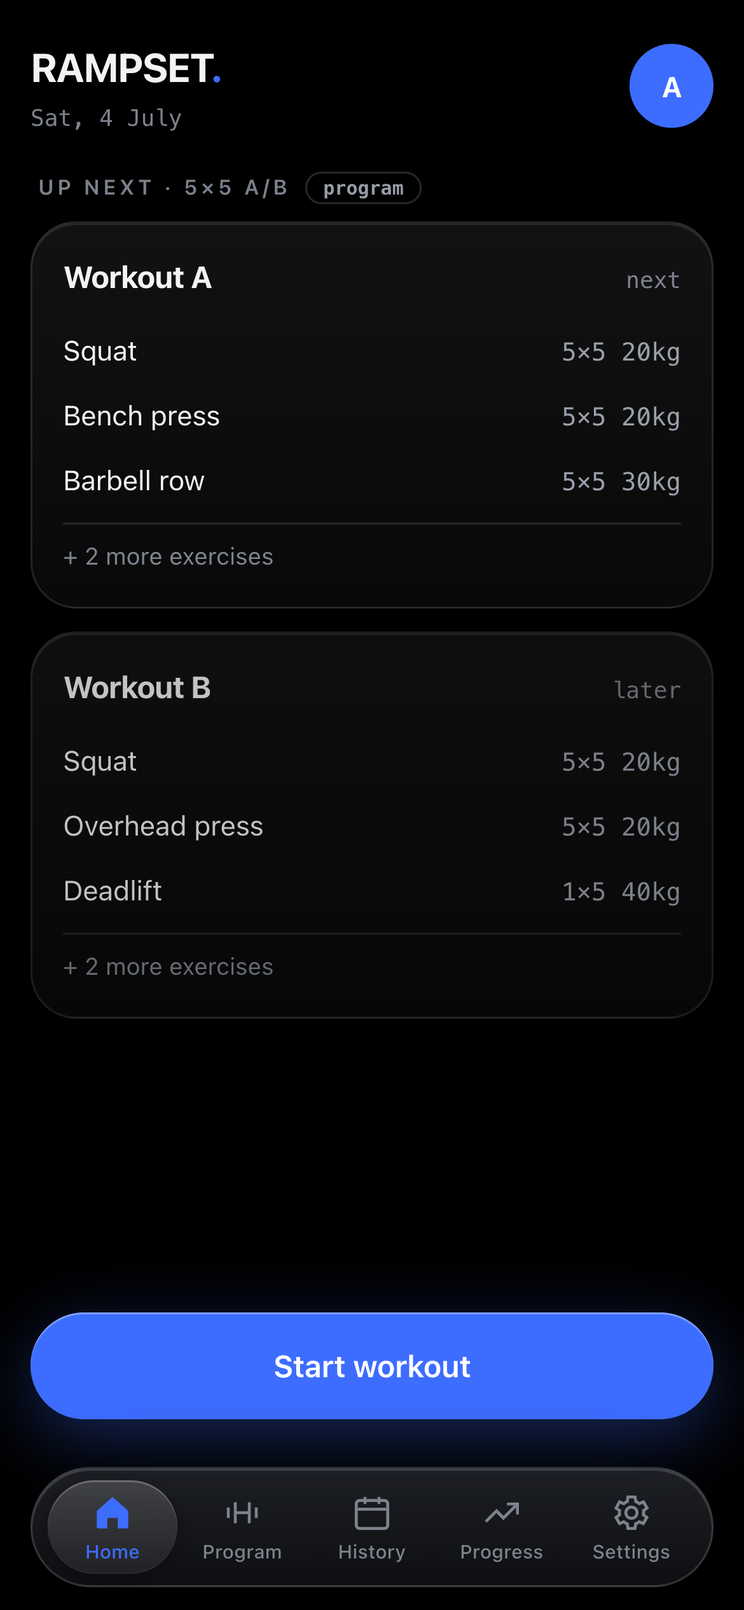
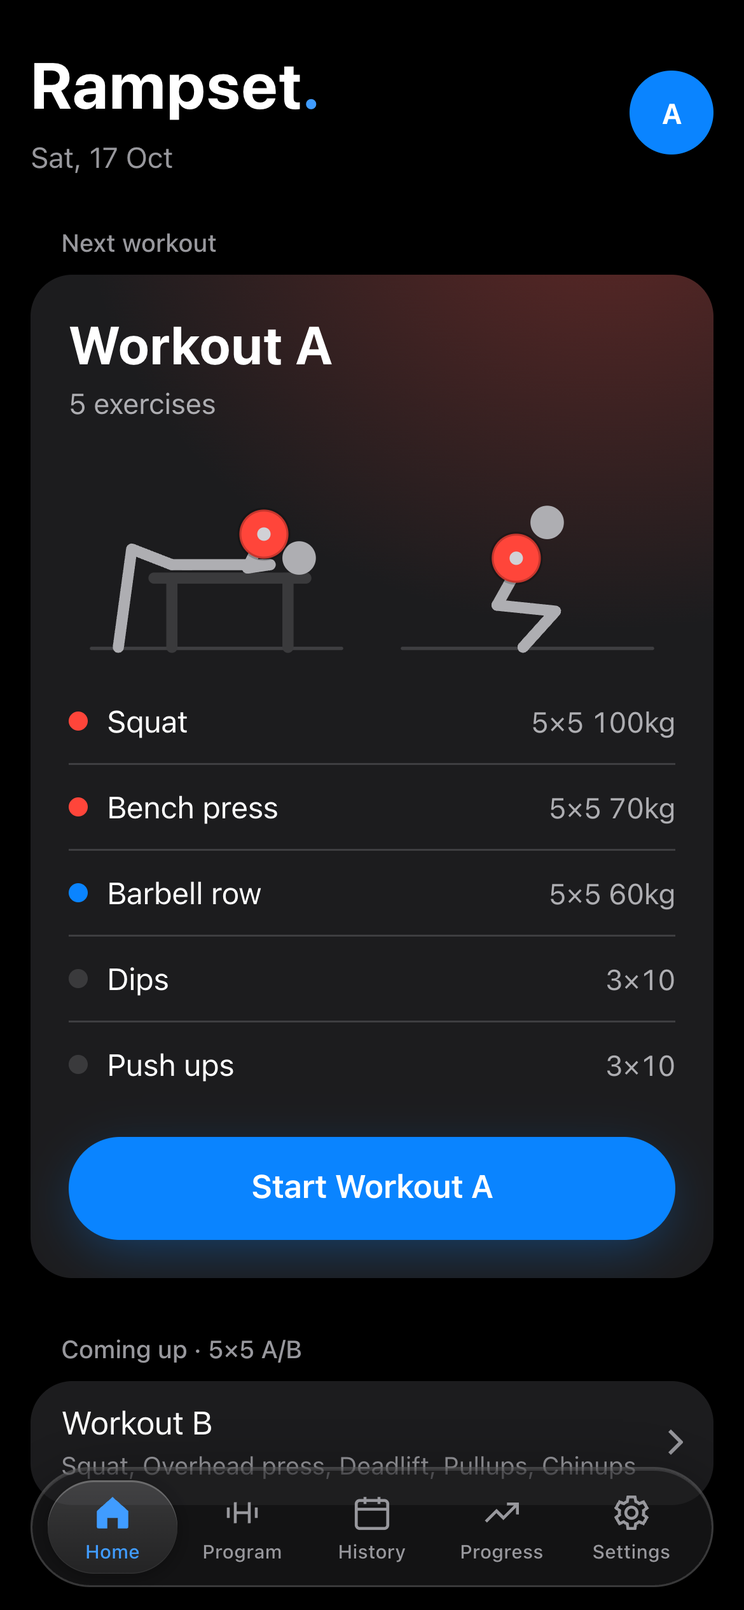
Rampset post: rewrite as a fresh promo for the app as it is today
New title and copy around what it's like to train with: sets coloured by
the plate on the bar, the bench-readable rest timer, plate math for gyms
with or without 25s, warm-ups in whole plates, the iPhone-native feel, and
fixing a past workout in place. Engine, offline and sync sections in the
present tense; 280 tests. New screenshots of Home and a workout in
progress, taken with demo data. The consultancy page's Rampset card gets
the new alt text and test count.

Claude-Session: https://claude.ai/code/session_01UK9EhDf8dq6rjJZyy7ok2F

diff --git a/app-consultancy.html b/app-consultancy.html
@@ -97,7 +97,7 @@ permalink: /app-consultancy/
 {% endcomment %}
       <article class="offer-case">{% comment %} was offer-case--reverse {% endcomment %}
         <div class="offer-case__media offer-case__media--phone">
-          <img src="/images/blog/rampset-app.png" alt="Rampset's home screen: the next two workouts with lifts, sets and weights, and a Start workout button" loading="lazy" decoding="async" width="1170" height="2532">
+          <img src="/images/blog/rampset-app.png" alt="Rampset's home screen: the next workout with two looping lifters, its exercises with sets and weights, and a Start Workout A button" loading="lazy" decoding="async" width="1170" height="2532">
         </div>
         <div class="offer-case__body">
           <h3>Rampset</h3>
@@ -107,7 +107,7 @@ permalink: /app-consultancy/
             <li>Installs from the browser, no app store</li>
             <li>Works fully offline; rest timer survives the phone locking</li>
             <li>Free to run on your own Cloudflare account</li>
-            <li>256 app tests, 87 in the sync library</li>
+            <li>280 app tests, 87 in the sync library</li>
           </ul>
           <a href="/rampset/">The story</a>
         </div>

diff --git a/_posts/2026-7-6-rampset.md b/_posts/2026-7-6-rampset.md
@@ -1,54 +1,81 @@
 ---
 layout: post
-title: "Rampset — I got fired as a customer, so I built the gym app myself and open-sourced it"
-description: "An open-source barbell training web app that works offline first — guided five-by-five and Madcow programs, freeform routines, a per-user Durable Object with its own SQLite for sync, R2 snapshots — built after the app holding my StrongLifts history cancelled my subscription during a support ticket. 256 tests, MIT, self-host on Cloudflare."
-excerpt: "A sign-in bug, a support ticket, and my grandfathered StrongLifts subscription was cancelled without me asking. The 1,270-workout export became the seed of Rampset: three training modes on one engine, the browser's on-device database as the source of truth, a per-user Durable Object for sync, and a rest timer that survives the phone locking. Then it lost a workout in production, and the interesting engineering started."
+title: "Rampset — a free, open-source barbell app that feels native on your iPhone"
+description: "Rampset is an open-source strength-training app you install from the browser: StrongLifts-style five-by-five, Madcow and freeform routines on one engine, plate math for your gym's plates, a rest timer that survives the phone locking, and it works with no signal at all. Sync through a Durable Object per user, 280 tests, MIT, self-host free on Cloudflare."
+excerpt: "A barbell app built for the gym floor: it works with zero reception, looks and moves like an iPhone app, colours every set by the plate on the bar, and runs three training programs on one engine. Free, open source, and yours to host."
 image: /images/blog/rampset.jpg
 image_alt: A loaded barbell resting on the floor of a dark gym
 date: 2026-07-06
-last_modified_at: 2026-07-06
+last_modified_at: 2026-10-17
 categories: [open-source, product]
 tags: [nextjs, react, pwa, cloudflare, durable-objects, typescript, tdd, fitness, open-source, claude-code]
 ---
 
-Zack Design has published **[Rampset](https://github.com/isaacrowntree/rampset)**, an open-source strength-training app that works offline first, built as a progressive web app (a website you install like an app), and it replaced the app I had logged my lifting in for years. A sign-in bug locked me out of that app; support's resolution, after a morning of screenshots, was to cancel my grandfathered subscription, and the only way back was a new plan at a much higher price. My history exported to CSV, 1,270 workouts, and that file became Rampset's first import. It runs three training styles on one engine, works in a gym with zero signal, syncs between devices through a Durable Object per user (Cloudflare's single-instance server object with its own SQLite database), and saves a snapshot of every workout to R2, Cloudflare's file storage. **MIT licensed**, built to self-host on your own Cloudflare account.
+Zack Design's **[Rampset](https://github.com/isaacrowntree/rampset)** is a free, open-source strength-training app for barbell lifters. You install it from the browser like an app, no app store involved, and it behaves like one: an iPhone-native look and feel, gestures that do what your thumb expects, and everything working in a gym with no signal at all. It runs three styles of training on one engine, does the plate math for the plates your gym actually has, and keeps every workout on your phone first. Your data syncs between devices through your own Cloudflare account. **MIT licensed**, free to self-host.
 
-This post covers the engine (linear progression; the stall protocol that steps a lift from five sets of five down to three sets of five and then one set of five; weight reductions scaled to how long you were away; Madcow's ramp fractions), the offline mechanics (a three-second network timeout in the service worker, a rest timer based on a saved start time rather than a countdown, a bell synthesised from two sine tones), and the production incident on 14 and 15 July in which a finished workout was erased, which produced four fixes that later became the [durable-sync](/durable-sync/) library.
+This post covers what it is like to train with, the engine behind the programs, how it stays useful with zero reception, and how to run your own.
 
 <!-- more -->
 
 **Site and guide:** [isaacrowntree.github.io/rampset](https://isaacrowntree.github.io/rampset) · **Source:** [github.com/isaacrowntree/rampset](https://github.com/isaacrowntree/rampset) (MIT)
 
+<div style="display: flex; gap: 1rem; justify-content: center; flex-wrap: wrap; margin: 1.5rem auto;">
+  <img src="/images/blog/rampset-app.png" alt="Rampset's home screen: the next workout, Workout A, with two looping lifters benching and squatting, its five exercises with sets and weights, and a Start Workout A button" width="1170" height="2532" style="max-width: 280px; width: 100%; height: auto; border-radius: 24px;" />
+  <img src="/images/blog/rampset-workout.png" alt="A workout in progress: finished squat and bench sets filled red for the 25 kg plates on the bar, a short bench set shown as an outlined 4 of 5, finished rows filled blue for 20 kg plates, and the next set of each lift ringed" width="1170" height="2532" style="max-width: 280px; width: 100%; height: auto; border-radius: 24px;" />
+</div>
+
+## Built for the gym floor
+
+Rampset is designed around the moment between sets: chalky hands, the phone on a bench, a glance from arm's length.
+
+- **Every set wears the plate on the bar.** A finished set fills with the colour of the heaviest plate you're lifting, using the competition colours: red for 25 kg, blue for 20, yellow for 15, green for 10, white for 5, and plain steel when it's just the bar. A session reads the way a loaded bar does from across the room. How the set went is shown by shape, not colour: a full disc is a completed set, an outline with "4/5" is a set that fell short, and a dashed ring is a set with no reps. The next set to do has a ring around it, so you can find it at a glance.
+- **One tap logs a set.** Tap a plate to log the full target; tap again to count down a rep. Logging a set starts the rest timer straight away.
+- **A rest timer you can read from the bench.** It sits at the bottom where your thumb is, in big rounded digits, and glows green when the rest is over. It rings a bell, keeps counting if you lock the phone or switch apps, and suggests a longer rest after a missed set.
+- **Plate math for your gym.** Each lift shows exactly which plates go on each side, drawn to scale on the bar, from 25 kg down to 1.25 kg. If your gym tops out at 20 kg plates, one switch in Settings changes all the maths and pictures to match.
+- **Warm-ups in whole plates.** Warm-up sets climb to your working weight in loads you can make without a pile of change plates: steps of 10 kg, or 5 kg where a step would otherwise land on the one before it.
+- **It moves like an iPhone app.** Apple's own dark palette and type, large titles that collapse as you scroll, sheets that spring and drag down to close, swipe back from the edge, and a workout screen you pull down to minimise, like the Music app's Now Playing screen. Finishing a workout plays a short celebration: plates drop onto a bar and the total weight you moved counts up. It respects Reduce Motion and Reduce Transparency.
+- **Fix a past workout in place.** Tap any workout in History and it opens in the same workout screen, with the weights you actually lifted that day, so you can add a set you forgot or correct a rep count.
+
 ## Three ways to train, one engine
 
-The constraint that shaped the architecture was not me. My wife trains too, and her program looks nothing like mine. So the `Program` row carries a mode, and `finishWorkout` branches on it:
+Every program has a mode, and the engine branches on it:
 
 ```ts
 export type ProgramMode = "progression" | "routine" | "madcow";
 ```
 
-- **Program mode** is StrongLifts-style training: five sets of five, alternating two workouts (A and B), with the family of variants (Plus, Lite, Mini, Ultra, Ultra Max). The engine in `src/lib/progression.ts` is a pure function. A successful workout adds `incrementKg` to the lift: 2.5 kg on the main lifts, 5 kg on the deadlift, nothing on the assistance lifts. Three failures in a row subtract `deloadPct`, 10%, rounded to the nearest 2.5 kg. The stall protocol lives on the program slot as `deloadCount`: after the first deload the lift stays at five sets of five, after the second it drops to three sets of five, after the third to one set of five. Warm-up sets ramp up to the working weight like this:
+**Program mode** is StrongLifts-style training: five sets of five, alternating two workouts, A and B, with the familiar variants (Plus, Lite, Mini, Ultra, Ultra Max). The progression engine in `src/lib/progression.ts` is a pure function of your history:
 
-  | Warm-up set | Fraction of the working weight | Reps |
-  |---|---|---|
-  | 1 | one half | 5 |
-  | 2 | two thirds | 5 |
-  | 3 | five sixths | 3 |
-  | 4 | eleven twelfths | 2 |
+- A successful workout adds weight: 2.5 kg on the main lifts and 5 kg on the deadlift. Assistance lifts like dips and pull-ups are yours to progress by hand.
+- A workout only counts as a success if every set it started with is done at full reps. A skipped set is a failed set, and lowering the set count partway through doesn't change that, because each workout is judged against the sets it began with.
+- Three failed workouts in a row at the same weight bring the lift down 10%, rounded to a loadable weight.
+- Repeated stalls step a lift from five sets of five to three sets of five, then to one set of five.
+- Squat appears in both workouts, and it's one lift: progress on Monday carries to Wednesday.
 
-  Plate math works out the plates for one side of the bar, largest first, from the 20, 15, 10, 5, 2.5 and 1.25 kg plates, and returns `null` rather than lie when a weight cannot be loaded exactly.
-- **Madcow mode** is five sets of five ramped up over the week. `src/lib/madcow.ts` encodes the three days directly:
+Warm-ups follow the classic ramp:
 
-  | Day | What it does |
-  |---|---|
-  | Heavy | four sets climbing through 50%, 62.5%, 75% and 87.5% of the top weight, then a top set of five |
-  | Light | the same ramp, stopping at 75% |
-  | Intensity | climbs to a personal-record set of three reps at the top weight plus one increment, then a back-off set of eight at 75% |
+| Warm-up set | Fraction of the working weight | Reps |
+|---|---|---|
+| 1 | one half | 5 |
+| 2 | two thirds | 5 |
+| 3 | five sixths | 3 |
+| 4 | eleven twelfths | 2 |
 
-  If the personal-record set succeeds, next week's top weight moves up.
-- **Routine mode** uses the layout of the Strong app: exercise cards with a row per set, everything prefilled from the last session by `src/lib/prefill.ts`, a rest time per exercise, timed sets and bodyweight sets. You prescribe; the app remembers.
+Squat, bench and overhead press start with two sets on the empty bar, and every step is rounded to whole plates, so a 62.5 kg bench warms up at 20, 20, 30, 40, 50 and 60 kg.
 
-Coming back after time off is handled by `src/lib/deload.ts`, and it is the whole file:
+**Madcow mode** is five sets of five ramped up over the week. `src/lib/madcow.ts` encodes the three days directly:
+
+| Day | What it does |
+|---|---|
+| Heavy | four sets climbing through 50%, 62.5%, 75% and 87.5% of the top weight, then a top set of five |
+| Light | the same ramp, stopping at 75% |
+| Intensity | climbs to a personal-record set of three reps at the top weight plus one increment, then a back-off set of eight at 75% |
+
+Hit the personal-record set and next week's top weight goes up.
+
+**Routine mode** takes the layout of the Strong app: exercise cards with a row per set, everything prefilled from last time, a rest time per exercise, timed sets and bodyweight sets. You prescribe; the app remembers.
+
+Time away from the gym is handled too. Come back after a break and the app offers to take the weights down, scaled to how long you were gone. This is `src/lib/deload.ts`, and it's the whole file:
 
 ```ts
 export function deloadPctForLayoff(daysAway: number): number {
@@ -59,13 +86,11 @@ export function deloadPctForLayoff(daysAway: number): number {
 }
 ```
 
-Both of our histories came in through CSV importers for the two incumbent apps' export formats, detected from the header row (`"Set Order"` meant Strong; `"Workout,Workout Name"` or `"Date (yyyy/mm/dd)"` meant StrongLifts) and deduplicated by their order within each date and workout label, because two "Workout A"s on one day is common in real exports. Once the migration was done the importers, 633 lines including tests, were deleted; export gives everything back as CSV from Settings.
+Your history is always yours: **Export** in Settings hands you every set as a CSV.
 
-<img src="/images/blog/rampset-app.png" alt="Rampset home screen: dark OLED UI showing the next 5×5 workouts with working weights and a Start workout button" style="max-width: 320px; width: 100%; display: block; margin: 1.5rem auto; border-radius: 24px;" />
+## No signal, no problem
 
-## Offline is the default state, not an error state
-
-Gyms are Faraday cages. IndexedDB, the browser's on-device database (used through the Dexie library), is the source of truth on the device, and the network is an optimisation. The service worker in `public/sw.js` caches the app shell and five routes, and the one constant in it that matters is this:
+Gyms are Faraday cages, so Rampset treats being offline as the normal state. Your workouts live in IndexedDB, the browser's on-device database (used through the Dexie library), and the network is an optimisation on top. The service worker caches the app, and gives up on the network fast instead of hanging:
 
 ```js
 /** Gym dead zones don't fail fetches — they hang them. Anything
@@ -73,7 +98,7 @@ Gyms are Faraday cages. IndexedDB, the browser's on-device database (used throug
 const NETWORK_TIMEOUT_MS = 3000;
 ```
 
-The rest timer is the other place where "offline" really means "the phone locked in your pocket". `src/components/RestTimer.tsx` does not count down; it saves the moment the rest started under `liftlog.restTimer` and, on every tick, works out how many seconds have passed since then (`Math.floor((Date.now() - startTs) / 1000)`), so sending the app to the background, navigating away, and a full reload cannot lose it. Closing the timer clears the tick but deliberately not the saved start time. A saved rest older than 30 minutes is treated as stale and discarded. When it rings, it rings with a bell the app synthesises, because a bundled audio file is one more thing to fail offline:
+The rest timer is built for the phone in your pocket. `src/components/RestTimer.tsx` doesn't count down; it saves the moment the rest started and works out the elapsed time on every tick (`Math.floor((Date.now() - startTs) / 1000)`), so locking the phone, switching apps or even reloading can't lose it. When it rings, it rings with a bell the app synthesises from two sine tones, because an audio file is one more thing that could fail to load offline:
 
 ```ts
 for (const [freq, at, dur] of [
@@ -87,54 +112,29 @@ for (const [freq, at, dur] of [
   gain.gain.exponentialRampToValueAtTime(0.0001, t0 + at + dur);
 ```
 
-Two tones per strike, struck twice, half a second apart. The `AudioContext` is created inside the tap that logs the set, because browsers only allow sound to start from a user gesture, and resumed before striking, because long workouts suspend it. The screen is kept awake while a workout is open, and the phone gives a 10-millisecond vibration on every logged set.
+The screen stays awake while a workout is open.
 
 ## Sync without a database server
 
-Each lifter gets their own Durable Object, addressed by their lower-cased email, which comes from the `cf-access-authenticated-user-email` header that Cloudflare Access sets. The Durable Object handles one request at a time and has its own SQLite database, which makes it the place where that user's writes are put in order, with no Postgres anywhere. Finished workouts are pushed as operations keyed by workout id, so applying one twice changes nothing; fresh devices pull. Underneath, `src/server/backupStore.ts` writes a dated snapshot to R2 under `snapshots/<user>/<stamp>.json` and merges a `latest.json` pointer with a write that only succeeds if the file has not changed since it was read (an etag check), retried three times, because two devices can finish a backup at once.
+Each lifter gets their own Durable Object: a single-instance server object on Cloudflare with its own SQLite database, which puts that lifter's writes in order without a Postgres server anywhere. Finished workouts are pushed as operations keyed by workout id, so applying one twice changes nothing, and a new phone catches up by pulling. A dated snapshot of everything goes to R2, Cloudflare's file storage, and the latest-snapshot pointer is merged with a write that only succeeds if nobody else changed it first, so two devices backing up at once can't overwrite each other.
 
-Identity is handled entirely by Access, so the app contains no authentication code, and the list of lifters is an environment variable (`NEXT_PUBLIC_LIFTLOG_USERS` in `.env.example`, a `LIFTLOG_USERS` Worker secret in production) that never enters the repo.
+The sync layer is [durable-sync](/durable-sync/), an open-source library built around four rules:
 
-## The week it lost a workout
+- a response that looks successful isn't proof the write landed, so the app checks the body before clearing its queue of unsent workouts;
+- a device's read position in the log only counts against the version of the log it came from;
+- pulling in changes from another device isn't always safe, so sync is push-only while a workout is open;
+- every write goes through a single identity check, so a shared phone can never file one lifter's workout under the other.
 
-On 14 July a real workout was erased from the R2 bucket. `docs/sync-repair-plan.md` is the write-up; the commit trail is the short version, and every step of it is a bug that looked like success.
+Sign-in is handled entirely by Cloudflare Access, so the app contains no authentication code, and the list of lifters lives in an environment variable rather than the repo. Two people can share a phone: tap the avatar to switch lifter.
 
-The backup route overwrote `latest.json` instead of merging it, so a device with an older local copy wiped out a newer one (#17). The journal only holds workouts finished since it existed, so years of imported history lived in `latest.json` and the dated snapshots alone, and snapshots expire after 90 days. One overwrite plus three months is unrecoverable. That is why the merge is now a union, written with the etag check.
-
-Then the outbox, the queue of writes waiting to be sent. Behind Cloudflare Access an expired session returns the login page with a success status (200) from the app's own domain, and `flushOutbox` emptied the queue as soon as the response looked successful, deleting writes the journal never saw (#11). The fix checks the shape of the response body before emptying the queue, and sends an `X-Requested-With` header so Access answers with a 401 instead of a login page. The same trap is in the service worker, which now caches a response only if it succeeded, was not redirected, and came from the app's own origin, because caching a login page poisons the offline shell.
-
-The same commit fixed the reason pulls happen at all during a workout: `applyOp` writes `workingWeightKg` and `finishWorkout` reads it back to decide deloads, so a remote operation landing mid-session could step a lift from five sets of five to three sets of five. Sync is now push-only while a workout is active:
-
-```ts
-canPull: async () => !(await getActiveWorkout(user.id)),
-```
-
-Repairing the journal needed a reset (#12), and the reset shipped its own bug (#14). Each device remembers how far through the journal it has read as a cursor, the sequence number of the last entry it saw. Rebuilding the journal restarted its sequence numbers at 1 while every device still held a cursor from the old journal.
-
-![Two panels: after the journal is rebuilt its sequence numbers restart at 1, but the device still holds a cursor at 912 from the old journal, so asking for entries newer than 912 returns nothing and the device silently never syncs again; with an epoch stamped on the journal, a device that sees a new epoch resets its cursor to zero and replays every entry.](/images/blog/rampset-cursor-epoch.svg)
-
-The journal now carries an epoch number, and a device that sees a new one replays from zero.
-
-Last, identity (#20). The identity check was on `cloudBackup` and `syncNow`, but `finishFlow` called `flushOutbox` directly, so finishing a workout as the other lifter on a shared phone posted it to the signed-in lifter's journal, got a valid acknowledgement, and emptied the outbox. In an append-only log that is permanent. The fix moved the check to the one door every write passes through, and #21 stopped an unreliable `/api/me` call (a two-second timeout that a cold mobile network blows routinely) from being read as "no identity, allow everything": the app now remembers the last identity it actually resolved and falls back to that.
-
-Those four failure modes are what got extracted as [durable-sync](/durable-sync/):
-
-- a successful-looking response is not evidence that the write landed;
-- a cursor only means something against the epoch it came from;
-- pulling remote changes is not always safe;
-- the identity check must be the only door.
-
-Rampset now uses the package; its own 329-line copy of the journal was deleted (#22), and the class name and SQL schema were kept identical so the live Durable Object carried over without a migration.
-
-## Tests
+## Tested
 
 ```
  Test Files  34 passed (34)
-      Tests  256 passed (256)
-   Duration  5.22s
+      Tests  280 passed (280)
 ```
 
-The engines are pure functions in `src/lib/` and each has a test file beside it: progression, deloads, Madcow, plates, estimated one-rep max (one case pins five reps at 115 kg to an estimate of 133.3 kg, a value taken from the real export), the sync journal, backup round-trips, and the `Sheet` component whose browser-history handling was the root cause of a finish-flow bug in #11 (`router.replace` overwrote the history entry the sheet had pushed, so consuming it on close walked the user back into a fresh workout). The count was 240 at the initial release and has moved with the incident fixes and the importer deletion; 256 is what runs today.
+The engines are pure functions in `src/lib/`, each with its test file beside it: progression and the skipped-set rules, layoff deloads, Madcow, plate math for gyms with and without 25 kg plates, warm-up rounding, the estimated one-rep max, and the sync journal and backup round-trips. The UI components are tested too, including the bottom sheet's handling of the back gesture and browser history.
 
 ## Run your own
 
@@ -147,8 +147,6 @@ npm run dev                    # → http://localhost:3000
 npm test                       # vitest — the engines, store, sync, components
 ```
 
-`npm run deploy` builds with the OpenNext adapter (which packages a Next.js app for Cloudflare) and ships to Cloudflare Workers; `wrangler.jsonc` declares the `SYNC_JOURNAL` Durable Object (a `new_sqlite_classes` migration) and the `BACKUPS` R2 bucket. Put a Cloudflare Access application in front of the Worker and allow your lifters' emails. Workers and Access are free for a household. The one paid gate is **R2**: the data sits well inside the 10 GB free tier, but Cloudflare wants a card on file to enable it. Without it, drop the `BACKUPS` binding; the app works fully offline on the local IndexedDB store, and the **Export** button in Settings hands you a complete CSV whenever you want.
+`npm run deploy` builds with the OpenNext adapter (which packages a Next.js app for Cloudflare) and ships to Cloudflare Workers. `wrangler.jsonc` declares the `SYNC_JOURNAL` Durable Object and the `BACKUPS` R2 bucket. Put a Cloudflare Access application in front of the Worker and allow your lifters' emails. Workers and Access are free for a household. The one paid gate is **R2**: the data sits well inside the 10 GB free tier, but Cloudflare wants a card on file to enable it. Without it, drop the `BACKUPS` binding; the app works fully offline on the phone's own storage, and **Export** in Settings gives you a complete CSV whenever you want.
 
-## What I would tell the subscription app
-
-The migration cost me a Saturday and the incident cost me a week, and the week was the useful part. Every bug in it returned a 200. A loyal customer with an export file is no longer locked in by anything, and with a coding agent in the loop "I'll build it myself" is a weekend, not a threat. The two proven programs, the plate math and the sync are all in a public repo under a licence that says make it yours. Take it somewhere no subscription can reach you.
+Then open it on your phone, choose **Add to Home Screen**, and it's an app. Two proven programs, plate maths for your gym and sync you can trust, in a public repo under a licence that says make it yours.
